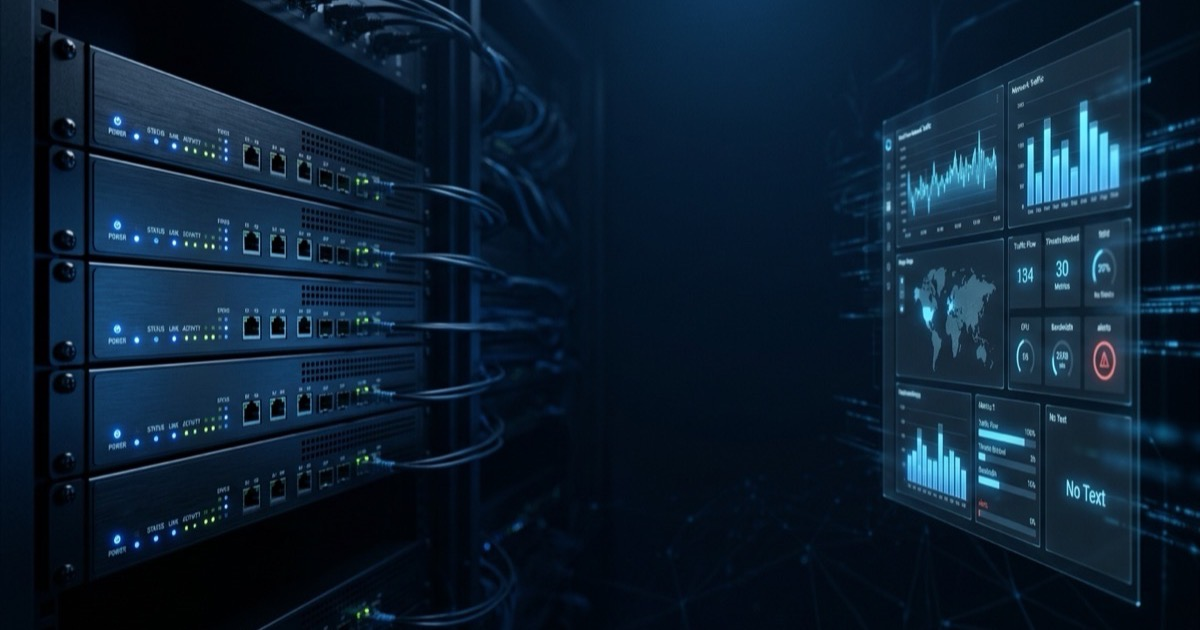
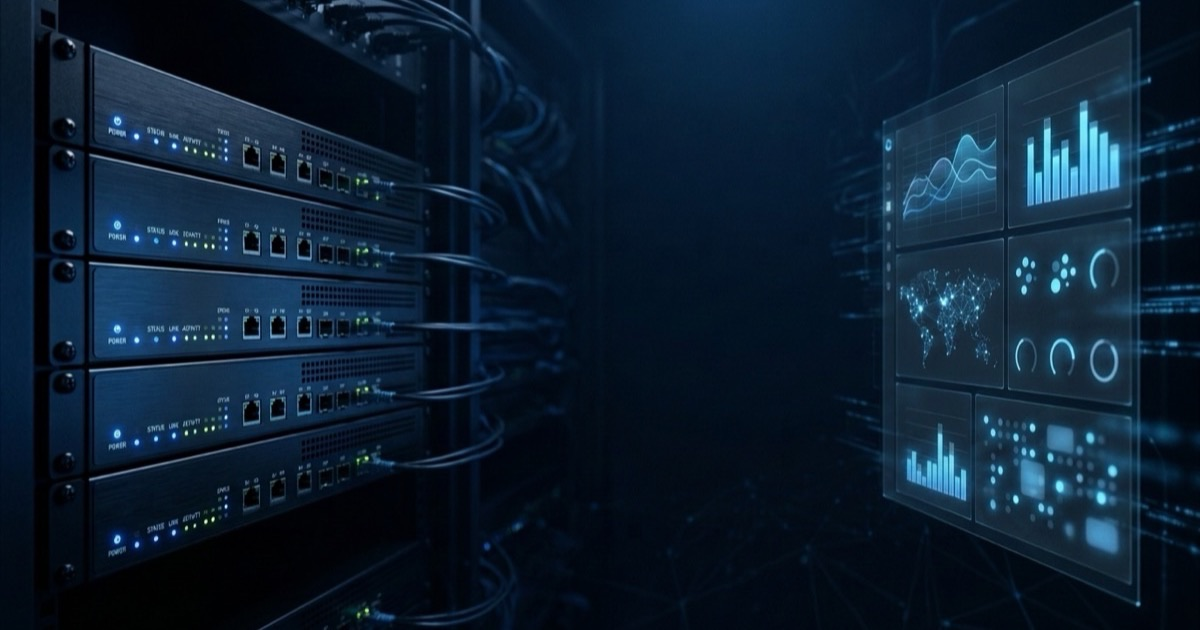
Remove 'No Text' artifact from social share card via AI edit — v0.2.11

diff --git a/index.html b/index.html
@@ -21,13 +21,13 @@
     <meta property="og:title" content="Firewall-Mon — One Pane of Glass for Your Firewall Fleet">
     <meta property="og:description" content="Vendor-agnostic firewall monitoring: SNMP, sFlow + NetFlow/IPFIX, config-drift, RBAC with 2FA, and distributed probe-relays. Self-hosted in one Docker container.">
     <meta property="og:url" content="https://firewall-mon.technicallabs.org/">
-    <meta property="og:image" content="https://firewall-mon.technicallabs.org/assets/social/og-card.png?v=0.2.9">
+    <meta property="og:image" content="https://firewall-mon.technicallabs.org/assets/social/og-card.png?v=0.2.11">
     <meta property="og:image:width" content="1200">
     <meta property="og:image:height" content="630">
     <meta name="twitter:card" content="summary_large_image">
     <meta name="twitter:title" content="Firewall-Mon — One Pane of Glass for Your Firewall Fleet">
     <meta name="twitter:description" content="Vendor-agnostic firewall monitoring: SNMP, sFlow + NetFlow/IPFIX, config-drift, RBAC with 2FA, and distributed probe-relays. Self-hosted in one Docker container.">
-    <meta name="twitter:image" content="https://firewall-mon.technicallabs.org/assets/social/og-card.png?v=0.2.9">
+    <meta name="twitter:image" content="https://firewall-mon.technicallabs.org/assets/social/og-card.png?v=0.2.11">
 
     <!-- Favicon Links -->
     <link rel="icon" type="image/png" sizes="32x32" href="assets/features/f6-audit-posture.png?v=0.2.8">

diff --git a/CHANGELOG.md b/CHANGELOG.md
@@ -3,6 +3,15 @@
 All notable changes to the Firewall-Mon marketing website are documented here.
 This file follows [Keep a Changelog](https://keepachangelog.com/) conventions; versions are newest-first.
 
+## [0.2.11] - 2026-07-18
+
+### Fixed
+- **Social share card "No Text" artifact removed.** The generated og-card had the
+  literal words "No Text" (and gibberish labels) rendered in a dashboard panel.
+  Cleaned via an AI image edit that replaced all dashboard text with abstract
+  chart shapes while preserving the composition, then re-cropped to 1200×630.
+  og:image / twitter:image cache-buster bumped to `?v=0.2.11`.
+
 ## [0.2.10] - 2026-07-18
 
 ### Changed